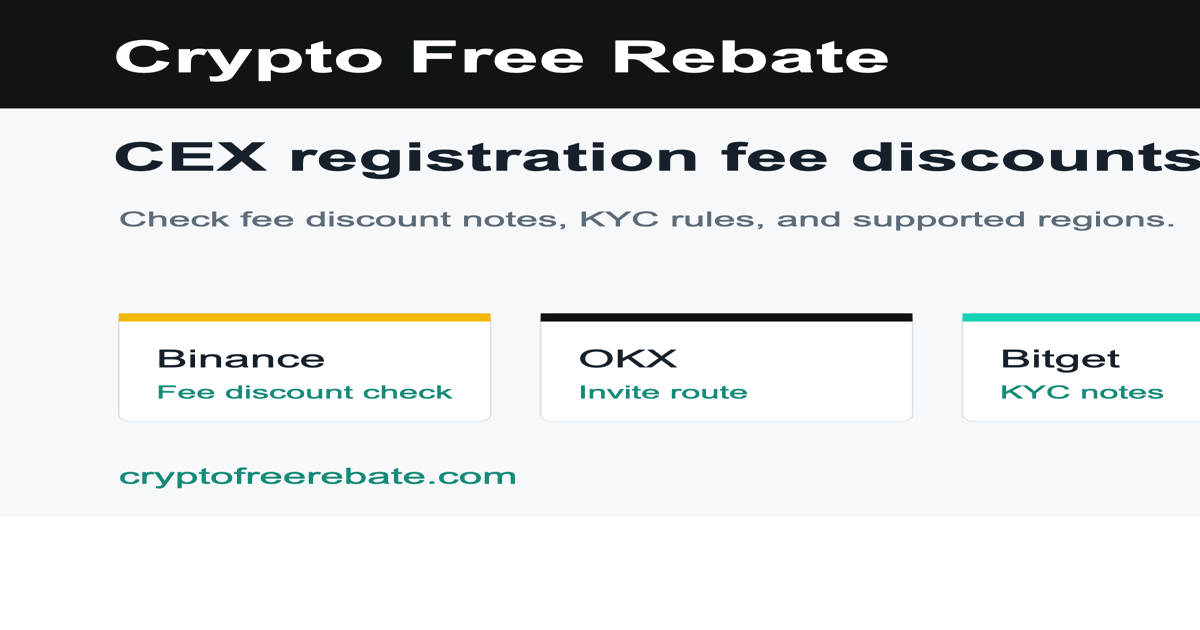
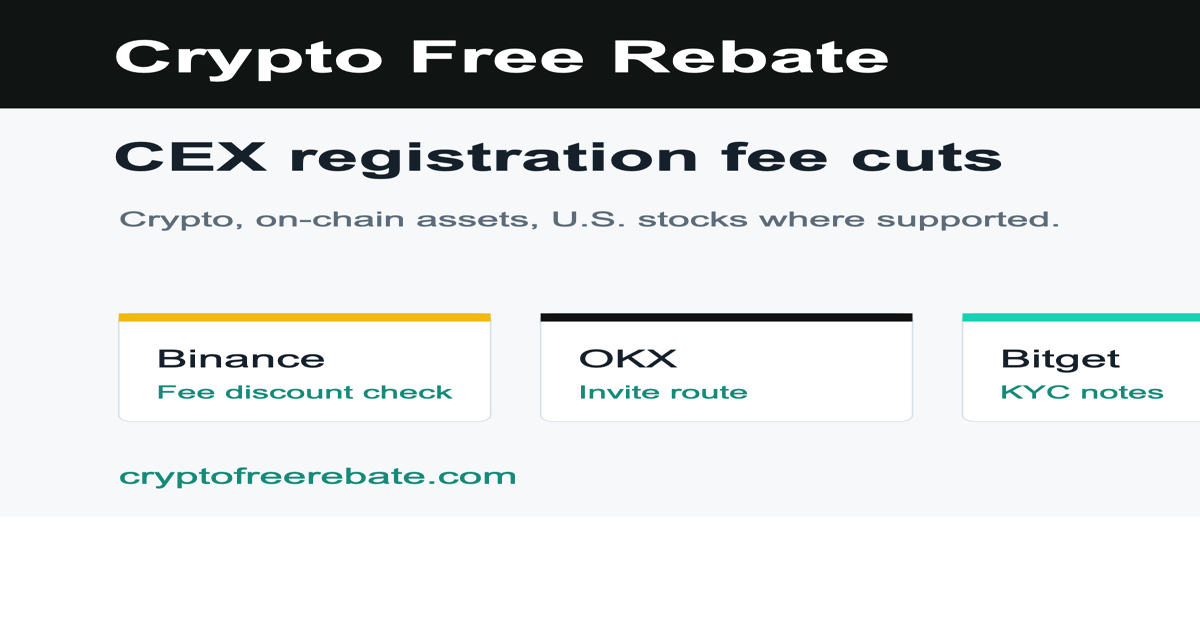
fix: clarify CEX fee cut positioning

Changed region(s): [[0.1233, 0.3317, 0.9867, 0.3619], [0.7092, 0.2111, 1.0, 0.2714]]

diff --git a/index.html b/index.html
@@ -5,8 +5,8 @@
     <meta name="viewport" content="width=device-width, initial-scale=1">
     <meta name="theme-color" content="#f6f8fa">
     <meta name="apple-mobile-web-app-status-bar-style" content="default">
-    <title>Crypto Exchange Registration Fee Discounts | Crypto Free Rebate</title>
-    <meta name="description" content="Crypto Free Rebate helps users check cryptocurrency exchange registration links, on-chain asset platform access, fee discount notes, KYC rules, and region eligibility.">
+    <title>Centralized Crypto Exchange Fee Discounts | Crypto Free Rebate</title>
+    <meta name="description" content="Register with centralized crypto exchanges and check fee discount notes for crypto trading, on-chain assets, and U.S. stock access where each exchange supports it.">
     <meta name="robots" content="index, follow, max-image-preview:large">
     <meta name="author" content="Crypto Free Rebate">
     <link rel="canonical" href="https://cryptofreerebate.com/">
@@ -14,14 +14,14 @@
     <meta property="og:site_name" content="Crypto Free Rebate">
     <meta property="og:locale" content="en_US">
     <meta property="og:url" content="https://cryptofreerebate.com/">
-    <meta property="og:title" content="Crypto Exchange Registration Fee Discounts | Crypto Free Rebate">
-    <meta property="og:description" content="Check crypto exchange registration links, fee discount notes, KYC reminders, and region eligibility in one focused site.">
+    <meta property="og:title" content="Centralized Crypto Exchange Fee Discounts | Crypto Free Rebate">
+    <meta property="og:description" content="Check CEX registration links, fee discount notes, KYC reminders, and supported crypto, on-chain asset, and U.S. stock access.">
     <meta property="og:image" content="https://cryptofreerebate.com/assets/og-image.png">
     <meta property="og:image:alt" content="Crypto exchange registration fee discount dashboard">
     <meta name="twitter:card" content="summary_large_image">
     <meta name="twitter:url" content="https://cryptofreerebate.com/">
-    <meta name="twitter:title" content="Crypto Exchange Registration Fee Discounts">
-    <meta name="twitter:description" content="Check crypto exchange registration links, fee discount notes, KYC reminders, and region eligibility.">
+    <meta name="twitter:title" content="Centralized Crypto Exchange Fee Discounts">
+    <meta name="twitter:description" content="Check CEX registration links, fee discount notes, KYC reminders, and supported crypto, on-chain asset, and U.S. stock access.">
     <meta name="twitter:image" content="https://cryptofreerebate.com/assets/og-image.png">
     <meta name="twitter:image:alt" content="Crypto exchange registration fee discount dashboard">
     <link rel="icon" href="/assets/favicon.svg" type="image/svg+xml">
@@ -46,7 +46,7 @@
             "publisher": {
               "@id": "https://cryptofreerebate.com/#organization"
             },
-            "description": "A focused cryptocurrency exchange registration fee discount site with registration links, fee education, and crypto asset calculators.",
+            "description": "A focused centralized crypto exchange registration fee discount site with registration links, fee education, and crypto asset calculators.",
             "inLanguage": "en-US"
           },
           {
@@ -101,11 +101,11 @@
       <section class="hero image-hero">
         <div class="hero-overlay"></div>
         <div class="hero-content">
-          <p class="eyebrow">Crypto exchange registration fee discounts</p>
-          <h1>Register with crypto exchanges and cut trading fees.</h1>
-          <p class="hero-copy">Crypto Free Rebate focuses on cryptocurrency and on-chain asset exchange registration. Check CEX registration routes, fee discount notes, KYC reminders, and supported-region access before opening an account.</p>
+          <p class="eyebrow">Centralized crypto exchange registration</p>
+          <h1>Register with CEX platforms and cut trading fees.</h1>
+          <p class="hero-copy">Crypto Free Rebate focuses on centralized crypto exchange registration fee discounts. Check CEX signup routes for crypto trading, on-chain assets, and U.S. stock access where the exchange itself supports them.</p>
           <div class="hero-actions">
-            <a class="button primary" href="#cex-offers">View exchange links</a>
+            <a class="button primary" href="#cex-offers">View fee-cut links</a>
             <a class="button secondary" href="#calculators">Use calculators</a>
           </div>
           <p class="microcopy">Available only to new users completing first-time registration and KYC, or returning users inactive for 180 days. Access must be from CEX-supported regions. Final offers are subject to the registration page shown by each platform.</p>
@@ -115,24 +115,24 @@
       <section class="section compact" aria-labelledby="trust-title">
         <div class="section-heading">
           <p class="eyebrow">Registration clarity</p>
-          <h2 id="trust-title">One site for crypto exchange registration fee discounts.</h2>
-          <p>Selected CEX registration routes, fee discount notes, KYC reminders, region access notes, and crypto asset calculators in one clean place.</p>
+          <h2 id="trust-title">One site for CEX registration fee cuts.</h2>
+          <p>Selected centralized exchange signup routes, registration fee discount notes, KYC reminders, supported-region notes, and asset calculators in one clean place.</p>
         </div>
         <div class="feature-grid">
           <article class="feature-card">
             <span class="feature-kicker">01</span>
-            <h3>Crypto asset focus</h3>
-            <p>Built around cryptocurrency, on-chain assets, and CEX registration paths.</p>
+            <h3>CEX registration first</h3>
+            <p>Built around exchange signup links and new-account fee discount eligibility.</p>
           </article>
           <article class="feature-card">
             <span class="feature-kicker">02</span>
-            <h3>Region rules</h3>
-            <p>Availability depends on your country and account status.</p>
+            <h3>Exchange products</h3>
+            <p>Crypto, on-chain assets, futures, and U.S. stock access can vary by exchange and region.</p>
           </article>
           <article class="feature-card">
             <span class="feature-kicker">03</span>
-            <h3>Useful tools</h3>
-            <p>Check fee discounts and keep crypto asset return estimates separate from registration terms.</p>
+            <h3>Fee-cut checks</h3>
+            <p>Registration discounts, rebates, and account rules must match the exchange page shown at signup.</p>
           </article>
         </div>
       </section>
@@ -140,16 +140,16 @@
       <section class="section band" id="cex-offers" aria-labelledby="cex-title">
         <div class="section-heading">
           <p class="eyebrow">CEX registration links</p>
-          <h2 id="cex-title">Crypto fee rebate links by exchange.</h2>
-          <p>Use one registration area for mainstream crypto exchange links, referral paths, and fee discount notes. Platform access, supported crypto products, and rebate eligibility can differ by country or region. This site does not provide investment advice, trading recommendations, or asset recommendations.</p>
+          <h2 id="cex-title">CEX registration fee-cut links by exchange.</h2>
+          <p>Use one registration area for mainstream centralized crypto exchange links, referral paths, and fee discount notes. Each exchange may support different crypto assets, on-chain assets, derivatives, or U.S. stock access depending on region and account status. This site does not provide investment advice, trading recommendations, or asset recommendations.</p>
         </div>
         <div class="exchange-grid cex-grid">
           <article class="exchange-card">
             <div class="exchange-logo logo-image"><img src="/assets/logos/binance.jpg" alt="Binance logo"></div>
             <div>
-              <p class="card-tag">Crypto exchange</p>
+              <p class="card-tag">CEX account</p>
               <h3>Binance</h3>
-              <p>Use the Binance registration route to check current crypto trading fee discount wording, KYC rules, and supported-region access.</p>
+              <p>Use the Binance registration route to check current crypto trading fee discount wording, KYC rules, supported products, and regional access.</p>
             </div>
             <div class="card-actions">
               <a class="button primary" href="https://www.bsmkweb.cc/register?ref=FEECUT" rel="sponsored nofollow noopener noreferrer">Register</a>
@@ -159,9 +159,9 @@
           <article class="exchange-card">
             <div class="exchange-logo logo-image"><img src="/assets/logos/okx.ico" alt="OKX logo"></div>
             <div>
-              <p class="card-tag">Crypto exchange</p>
+              <p class="card-tag">CEX account</p>
               <h3>OKX</h3>
-              <p>Use the OKX invite route to verify current crypto trading fee discount terms, campaign wording, and region access before signup.</p>
+              <p>Use the OKX invite route to verify crypto fee discount terms, on-chain asset access, campaign wording, and region rules before signup.</p>
             </div>
             <div class="card-actions">
               <a class="button primary" href="https://www.promooboost.com/join/FEECUT" rel="sponsored nofollow noopener noreferrer">Register</a>
@@ -171,9 +171,9 @@
           <article class="exchange-card">
             <div class="exchange-logo logo-image"><img src="/assets/logos/bitget.png" alt="Bitget logo"></div>
             <div>
-              <p class="card-tag">Crypto exchange</p>
+              <p class="card-tag">CEX account</p>
               <h3>Bitget</h3>
-              <p>Open the Bitget registration route to confirm current crypto fee discount terms, account eligibility, and KYC requirements.</p>
+              <p>Open the Bitget registration route to confirm current crypto fee discount terms, supported assets, account eligibility, and KYC requirements.</p>
             </div>
             <div class="card-actions">
               <a class="button primary" href="https://partner.hdmune.cn/bg/q4qxmbpd" rel="sponsored nofollow noopener noreferrer">Register</a>
@@ -183,9 +183,9 @@
           <article class="exchange-card">
             <div class="exchange-logo logo-image"><img src="/assets/logos/bitmart.jpg" alt="BitMart logo"></div>
             <div>
-              <p class="card-tag">Crypto exchange</p>
+              <p class="card-tag">CEX account</p>
               <h3>BitMart</h3>
-              <p>Use the BitMart invite link to review visible campaign wording, crypto fee terms, and account eligibility before registering.</p>
+              <p>Use the BitMart invite link to review visible campaign wording, crypto fee terms, supported markets, and account eligibility before registering.</p>
             </div>
             <div class="card-actions">
               <a class="button primary" href="https://www.bitmart.com/invite/feecut" rel="sponsored nofollow noopener noreferrer">Register</a>
@@ -195,9 +195,9 @@
           <article class="exchange-card">
             <div class="exchange-logo logo-image"><img src="/assets/logos/bit.jpg" alt="BIT logo"></div>
             <div>
-              <p class="card-tag">Crypto exchange</p>
+              <p class="card-tag">CEX account</p>
               <h3>BIT</h3>
-              <p>Use the BIT registration path to check supported crypto products, account rules, and region access before opening an account.</p>
+              <p>Use the BIT registration path to check supported crypto products, U.S. stock access where available, account rules, and region access.</p>
             </div>
             <div class="card-actions">
               <a class="button primary" href="https://www.bit.com/signup" rel="sponsored nofollow noopener noreferrer">Register</a>
@@ -211,7 +211,7 @@
         <div class="section-heading">
           <p class="eyebrow">Crypto fee rebate guide</p>
           <h2 id="rebate-guide-title">Find the exact fee rebate path you searched for.</h2>
-          <p>Crypto fee rebate searches usually have a simple intent: find the correct exchange registration route, confirm whether a fee discount applies, and understand the account rules before creating a new account.</p>
+          <p>Crypto fee rebate searches usually have a simple intent: find the correct CEX registration route, confirm whether a fee discount applies, and understand the account rules before creating a new account.</p>
         </div>
         <div class="article-card-grid">
           <a class="article-card" href="/binance-fee-rebate/">
@@ -249,8 +249,8 @@
 
       <section class="section band" id="calculators" aria-labelledby="calc-title">
         <div class="section-heading">
-          <p class="eyebrow">Crypto calculators</p>
-          <h2 id="calc-title">Run crypto asset and fee numbers separately.</h2>
+          <p class="eyebrow">Asset and fee calculators</p>
+          <h2 id="calc-title">Run asset and fee numbers separately.</h2>
           <p>Use these tools for directional estimates. Results do not include taxes, spreads, slippage, margin interest, exchange rules, or campaign-specific terms.</p>
         </div>
         <div class="calculator-grid">
@@ -269,7 +269,7 @@
           </article>
 
           <article class="tool-card calculator" data-gain-calculator>
-            <h3>Crypto asset gain calculator</h3>
+            <h3>Asset gain calculator</h3>
             <div class="field-grid two">
               <label>Buy price <input data-buy-price type="number" min="0" step="0.01" value="100" inputmode="decimal"></label>
               <label>Sell price <input data-sell-price type="number" min="0" step="0.01" value="125" inputmode="decimal"></label>
@@ -301,8 +301,8 @@
       <section class="section" id="blog" aria-labelledby="blog-title">
         <div class="section-heading">
           <p class="eyebrow">Blog</p>
-          <h2 id="blog-title">Guides by crypto user type.</h2>
-          <p>Beginner setup checks, active trading fee checks, fee discount terms, and crypto asset calculator notes in one simple learning area.</p>
+          <h2 id="blog-title">Guides by CEX user type.</h2>
+          <p>Beginner setup checks, active trading fee checks, supported asset access, fee discount terms, and calculator notes in one simple learning area.</p>
         </div>
         <div class="article-card-grid">
           <a class="article-card" href="/blog/reduce-crypto-trading-fees/">
@@ -332,7 +332,7 @@
         <div class="section-heading">
           <p class="eyebrow">YouTube</p>
           <h2 id="youtube-title">Video content area.</h2>
-          <p>Add YouTube embeds for crypto exchange registration tutorials, fee discount walkthroughs, and calculator explainers.</p>
+          <p>Add YouTube embeds for CEX registration tutorials, fee discount walkthroughs, supported asset access notes, and calculator explainers.</p>
         </div>
         <div class="video-grid">
           <article class="video-card">
@@ -364,8 +364,8 @@
             <p>A crypto fee rebate is a trading fee benefit connected to an exchange referral, invite link, campaign, or account tier. The exact benefit depends on the exchange, region, product, and current campaign terms.</p>
           </details>
           <details>
-            <summary>How do I check crypto fee rebate links?</summary>
-            <p>Check the visible referral code, fee discount wording, supported crypto products, region rules, KYC requirements, and whether the exchange page confirms the benefit.</p>
+            <summary>How do I check CEX fee discount links?</summary>
+            <p>Check the visible referral code, fee discount wording, supported products, region rules, KYC requirements, and whether the exchange page confirms the benefit.</p>
           </details>
           <details>
             <summary>Are crypto fee rebate offers guaranteed?</summary>
@@ -373,11 +373,11 @@
           </details>
           <details>
             <summary>Is this investment advice?</summary>
-            <p>No. Crypto Free Rebate only provides selected crypto exchange registration links, fee discount information, and calculators. It does not recommend buying, selling, holding, or trading any asset.</p>
+            <p>No. Crypto Free Rebate only provides selected centralized crypto exchange registration links, fee discount information, and calculators. It does not recommend buying, selling, holding, or trading any asset.</p>
           </details>
           <details>
             <summary>Do all platforms support every region?</summary>
-            <p>No. Each crypto platform can restrict registration, products, fee rebates, KYC rules, deposits, and account access by country or region. Always check the platform page for your location before registering.</p>
+            <p>No. Each centralized exchange can restrict registration, crypto products, on-chain asset access, U.S. stock access, fee rebates, KYC rules, deposits, and account access by country or region. Always check the platform page for your location before registering.</p>
           </details>
         </div>
       </section>
@@ -396,7 +396,7 @@
     <footer class="footer">
       <div>
         <strong>Crypto Free Rebate</strong>
-        <p>Crypto exchange registration links, fee discount notes, fee education, and crypto asset calculators.</p>
+        <p>Centralized crypto exchange registration links, fee discount notes, fee education, and asset calculators.</p>
       </div>
       <div class="footer-links">
         <a href="#cex-offers">Offers</a>
@@ -404,7 +404,7 @@
         <a href="/privacy-policy/">Privacy Policy</a>
         <a href="https://t.me/Graceliu0124" rel="noopener noreferrer">Telegram</a>
       </div>
-      <p class="fine-print">Disclaimer: Crypto Free Rebate only provides registration links and fee discount information for selected cryptocurrency exchanges. Some links may be referral or partner links and may provide registration fee discounts when eligible. Platform access, supported crypto products, rebates, and account rules can differ by country or region. This site does not provide investment, tax, legal, or financial advice and does not recommend any trade, token, or asset. Check local rules and platform terms before registering.</p>
+      <p class="fine-print">Disclaimer: Crypto Free Rebate only provides registration links and fee discount information for selected centralized cryptocurrency exchanges. Some links may be referral or partner links and may provide registration fee discounts when eligible. Platform access, supported crypto products, on-chain assets, U.S. stock access, rebates, and account rules can differ by country or region. This site does not provide investment, tax, legal, or financial advice and does not recommend any trade, token, stock, or asset. Check local rules and platform terms before registering.</p>
     </footer>
   </body>
 </html>